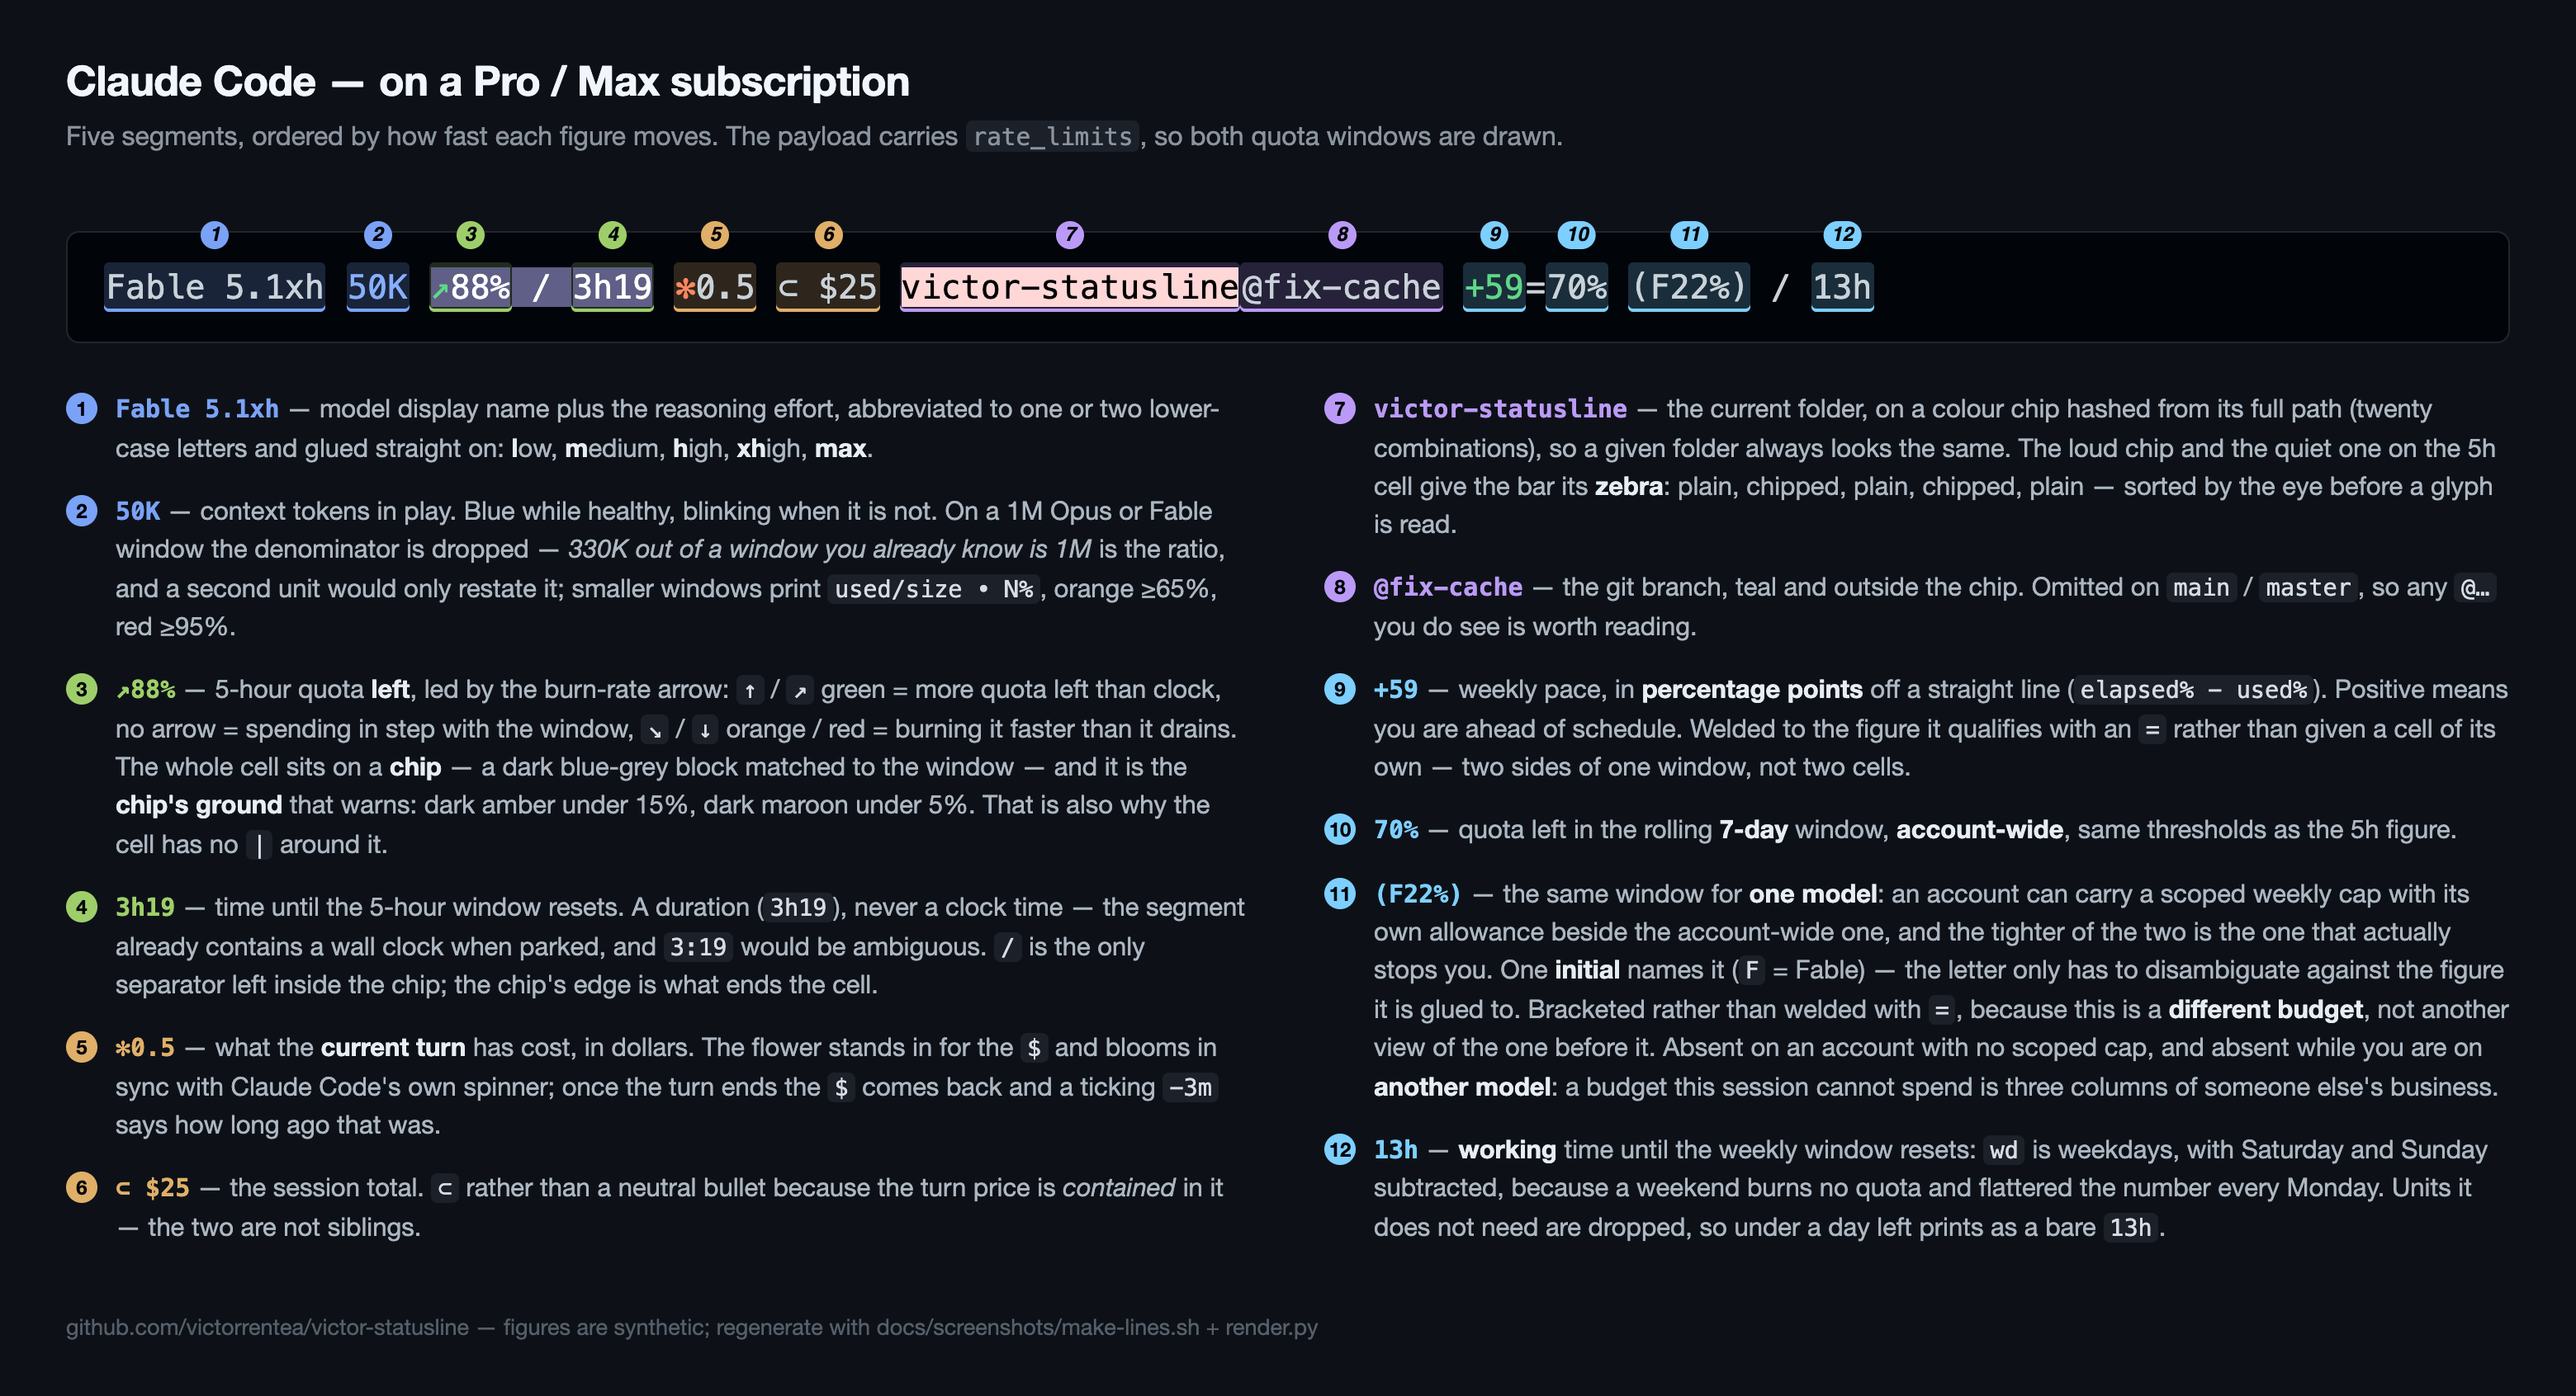
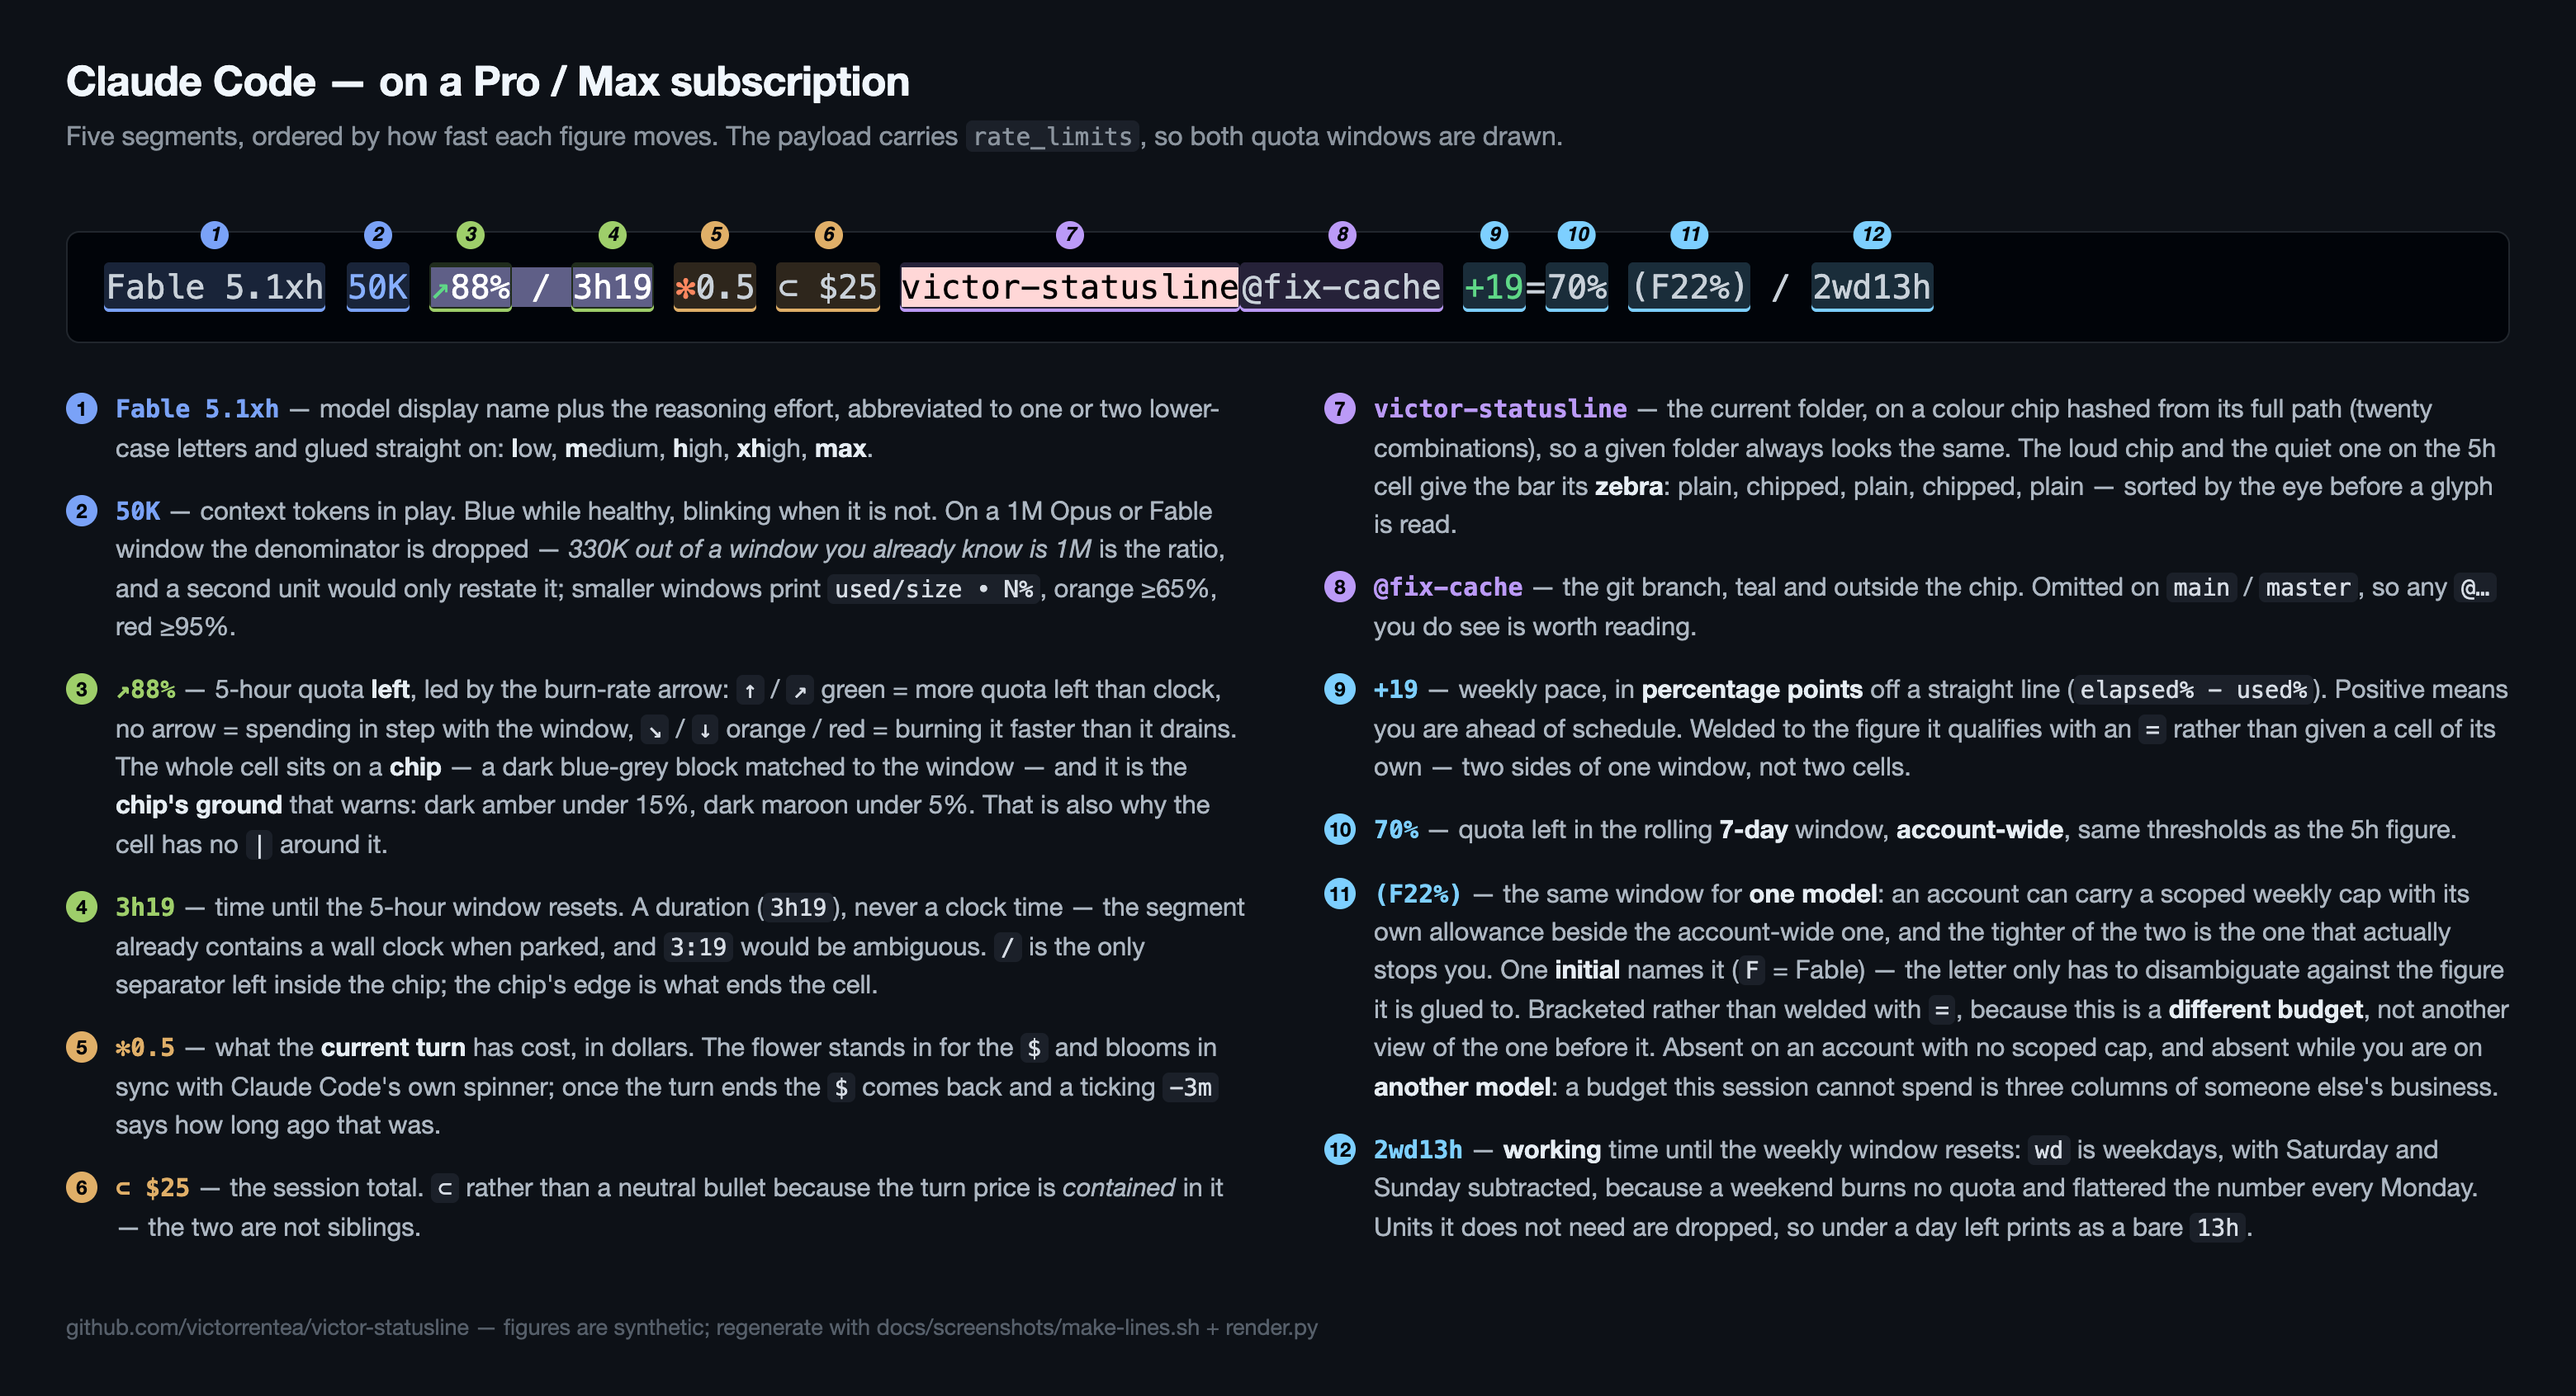
Placeholder: four stars, not seven, so the total never moves
The "nothing billed yet" placeholder was ★★★★★★★, three cells wider than
the first live figure (✳0.1, ✻0.7 = four cells), so every turn the session
total stepped three cells left the moment the first cost landed. Four
stars are exactly as wide as the figure they hold the place of: the
figure drops into the same room and the total stays put.

Script comments and the doc's argument are rewritten (no longer "the
price is a one-time settle"), the test asserts four and not five, and the
screenshots are regenerated (only the weekly-reset clock drifted; no
sample shows the placeholder).

Changed region(s): [[0.5285, 0.7991, 0.9638, 0.8913], [0.684, 0.1537, 0.7772, 0.2459]]

diff --git a/claude/victor-claude-statusline.md b/claude/victor-claude-statusline.md
@@ -45,10 +45,10 @@ Opus 5xh 50K 98% / 4h47 $0.1 -3m ⊂ $25 ai | +24=70% / 1d1h
 ```
 
 Just after you hit Enter, before the first response has billed anything — **no
-turn price at all**, only seven stars holding its place:
+turn price at all**, only four stars holding its place:
 
 ```
-Opus 5xh 50K | 98% / 4h47 | ★★★★★★★ ⊂ $25 | ai | +24=70% / 1d1h
+Opus 5xh 50K | 98% / 4h47 | ★★★★ ⊂ $25 | ai | +24=70% / 1d1h
 ```
 
 Idle long enough that the prompt cache is gone. The loss is priced either way;
@@ -694,7 +694,7 @@ then the **session total**.
 |-------|---------|
 | `✻0.5` | cost of the **current turn** (one decimal) — the **animated flower stands in for the `$`** while it is still adding up |
 | *(or)* `$0.1 -3m` | when idle: the finished turn's cost, `$` restored, + a ticking "-N" clock |
-| *(or)* `★★★★★★★` | right after Enter, before this turn has billed: **no figure at all**, seven stars hold the slot |
+| *(or)* `★★★★` | right after Enter, before this turn has billed: **no figure at all**, four stars hold the slot — as wide as the figure they stand in for |
 | `(2.7⏱)` | red — this turn **missed the prompt cache**; $2.70 of the turn's price was the extra paid to write the old prefix again instead of reading it (see §3.1) |
 | `⊂` | subset: the turn's spend is *contained in* the session's (see below) |
 | `$25` | session total, **truncated** — one decimal under `$10` (`$0.3`), whole dollars from `$10` up, never below the turn figure |
@@ -769,7 +769,7 @@ quantity, a piece of the same money.
 **current turn has actually billed yet** (`turn_cost > 0`):
 
 - **working, nothing billed yet** (the 10–20 s between hitting Enter and the
-  first response) → **seven stars in place of the figure**: `★★★★★★★ ⊂ $25`.
+  first response) → **four stars in place of the figure**: `★★★★ ⊂ $25`.
   The previous turn's price disappears the instant you press Enter.
 
   This is the one place where showing a number is worse than showing none. The
@@ -780,15 +780,24 @@ quantity, a piece of the same money.
   available at that moment: counting has started, no figure yet. (The session
   total stays: it is still correct.)
 
-  **Seven stars, not one flower** (changed 2026-09-30). This state used to be a
-  single bare flower, and a single flower is exactly the glyph that, one beat
+  **A row of stars, not one flower** (changed 2026-09-30). This state used to be
+  a single bare flower, and a single flower is exactly the glyph that, one beat
   later, stands in for the `$` in front of the live figure — so "nothing yet"
   and "a number is arriving" were the same shape at a glance. `★` (U+2605) is
-  deliberately none of the bloom glyphs, and the row is a fixed seven-character
-  string: never one star, never the flower repeated to pad the slot. It still
-  pulses through the bloom colours, so the segment says "working" exactly as the
-  flower did. The price is width: seven cells against `✻0.5`'s four, so the
-  session total steps three cells left once, when the first cost lands.
+  deliberately none of the bloom glyphs, and the row is a fixed string: never
+  one star, never the flower repeated to pad the slot. It still pulses through
+  the bloom colours, so the segment says "working" exactly as the flower did.
+
+  **Four stars, because the figure is four cells** (changed 2026-10-05). `✳0.1`,
+  `✻0.7` — a flower and three characters — is what lands in that slot when the
+  first cost arrives, so four stars make the placeholder exactly as wide as the
+  thing it holds the place of, and the session total does not move at all when
+  the stars give way to the figure. The first version used seven, three cells
+  wider than any first figure, and paid for it with a one-time settle: every
+  turn, the total stepped three cells left the moment the first cost landed —
+  the same "the number you are watching moves when it starts to matter" fault
+  the `⊂` rule below exists to prevent. (A turn of $10 or more prints one cell
+  wider, but that figure has long since replaced the stars by then.)
 
   The `⊂` **stays** through this state, even with nothing on its left. Dropping
   it — the earlier rule — meant that the instant the first cost landed the
@@ -982,7 +991,7 @@ Three guards keep it from crying wolf:
   therefore not information.
 - **`$cr = -1`** (no request in this turn yet) — no verdict to give. *Absence of
   data must never render as a miss*; that's how a warning glyph becomes noise
-  and stops being read. Note this is exactly the seven-stars window above, which
+  and stops being read. Note this is exactly the four-stars window above, which
   shows no price and hence no label.
 - **`$fp < $prev / 2`** — the prompt **shrank**: a `/compact` (or a rewind)
   replaced the old prefix on purpose, so reading little of it back is the point,
@@ -2991,8 +3000,8 @@ if [ -n "$spend_ready" ]; then
   fi
   # Displayed cost + label. Three states, driven by "am I working" AND by whether
   # the current turn has actually billed yet (turn_cost>0):
-  #   working, nothing billed yet (you just hit Enter) -> SEVEN STARS in place
-  #     of the figure ("★★★★★★★ ⊂ $12"). The previous turn's price vanishes the
+  #   working, nothing billed yet (you just hit Enter) -> FOUR STARS in place
+  #     of the figure ("★★★★ ⊂ $12"). The previous turn's price vanishes the
   #     instant you press Enter: for the 10-20s before the first response lands
   #     there is no current cost, and leaving the old number on screen means the
   #     one figure you look at is silently stale — you read "$1.4" and attribute
@@ -3054,7 +3063,7 @@ if [ -n "$spend_ready" ]; then
       *) flower="✽"; bloom=$BLOOM4 ;;
     esac
     # The flower stands in for the "$". No cost yet on this turn => print no
-    # figure at all; the seven stars below hold the slot instead.
+    # figure at all; the four stars below hold the slot instead.
     if [ "$(echo "$turn_cost > 0" | bc -l)" = "1" ]; then
       turn_disp=$(trunc1 "$turn_cost")
       turn_money=$(printf '%s%s%s%s' "$bloom" "$flower" "$RESET" "$turn_disp")
@@ -3063,9 +3072,11 @@ if [ -n "$spend_ready" ]; then
     fi
     turn_suffix=""
     # ★ (U+2605), not one of the bloom glyphs: ✢ ✳ ✻ ✽ are the flower, and the
-    # placeholder must not read as a flower. Exactly seven, one cell each. The
-    # hue still breathes with the bloom, so the bar says "working" as before.
-    lone="${bloom}★★★★★★★${RESET}"
+    # placeholder must not read as a flower. Exactly four, one cell each: the
+    # width of the figure it stands in for ("✻0.7" is four cells), so the slot
+    # is the same size empty or full. The hue still breathes with the bloom, so
+    # the bar says "working" as before.
+    lone="${bloom}★★★★${RESET}"
   else
     # idle after a finished turn -> that turn's cost is in turn_cost; just after
     # Enter (turn_cost==0) -> fall back to the previous turn's cost.
@@ -3117,15 +3128,18 @@ if [ -n "$spend_ready" ]; then
     spend_seg="${turn_money}${miss_tag}${turn_suffix} ${sep} ${total_money}"
   else
     # Nothing billed yet: the stars stand in for the missing figure, but the
-    # "⊂" stays ("★★★★★★★ ⊂ $12"). Dropping it was the earlier rule and it made the
+    # "⊂" stays ("★★★★ ⊂ $12"). Dropping it was the earlier rule and it made the
     # segment jump: the moment the first cost landed, "⊂" appeared out of nowhere
     # and shoved the total two cells right, so the one number you were watching
     # moved exactly when it started mattering. Keeping the separator through the
     # empty state keeps the segment's shape, and it is still true — whatever this
-    # turn ends up costing IS contained in that total, figure or no figure. (The
-    # seven stars are three cells wider than "✻0.7", so the total does step left
-    # once when the first cost lands: a one-time settle, the price of a
-    # placeholder that cannot be mistaken for the figure.)
+    # turn ends up costing IS contained in that total, figure or no figure. The
+    # stars are four for the same reason: "✻0.7" is four cells, so when the
+    # first cost lands the figure drops into exactly the room the stars held
+    # and the total does not move at all. (It used to be seven stars, three
+    # cells wider than the figure, and the total stepped left once on the
+    # first cost -- a settle that four removes. A turn of $10 or more prints
+    # one cell wider, but such a turn has long since replaced the stars.)
     spend_seg="${lone} ${sep} ${total_money}"
   fi
 fi
